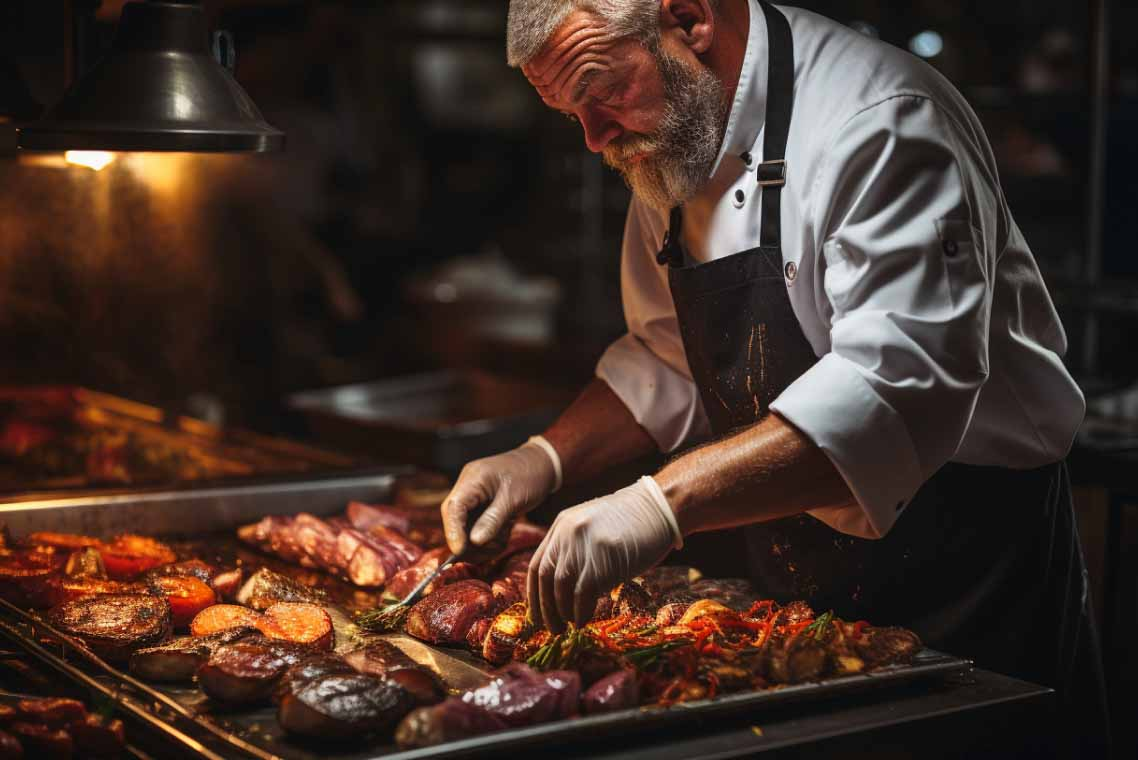
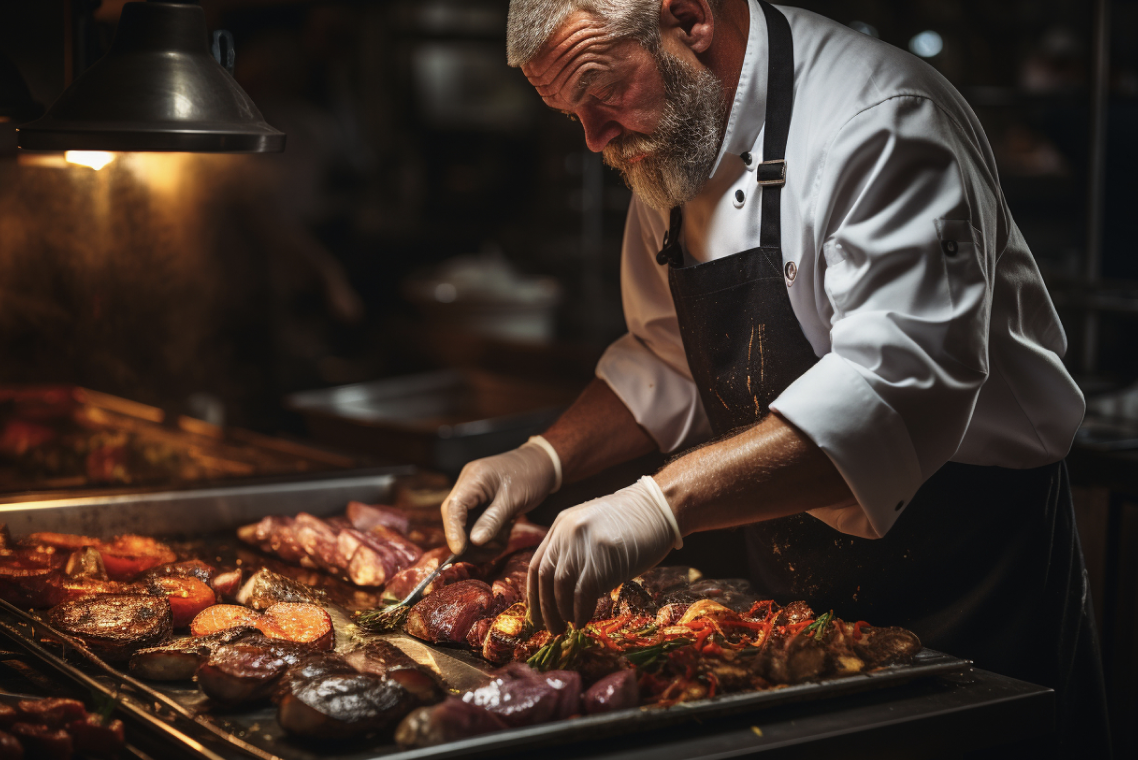
test

Changed region(s): [[0.0308, 0.6961, 0.7074, 0.8776], [0.4613, 0.0303, 0.5228, 0.0605], [0.5228, 0.0, 0.5536, 0.0303]]

diff --git a/index.html b/index.html
@@ -79,7 +79,7 @@
 
                 <div class="todays_recipes_content_block">
                     <div class="todays_recipes_content_block_image">
-                        <img src="clip-image.jpg" alt="">
+                        <img src="clip-image.png" alt="">
                     </div>
                     <div class="todays_recipes_content_block_text">
                         <div class="todays_recipes_content_block_text_top">
@@ -102,11 +102,6 @@
                         </div>
                     </div>
                 </div>
-
-
-                safese
-
-
 
                 <div class="todays_recipes_content_block">
                     <div class="todays_recipes_content_block_image">

diff --git a/css/style.css b/css/style.css
@@ -1189,21 +1189,24 @@ right: 260px;
 .steps .step {
     margin-bottom: 15px;
     display: flex;
+    align-items: center;
     gap: 10px;
    /*  margin-left: 80px; */
 }
 
 .step-number {
-    writing-mode: vertical-lr;
+    transform: rotate(-90deg);
+    white-space: nowrap;
     text-align: center;
     text-transform: uppercase;
     font-size: 13px;
     font-weight: bold;
     color: var(--primary-color);
+    margin-left: -15px;
   /*   padding-left: 30px; */
 }
 .step-text {
-    padding-left: 23px;
+    padding-left: 10px;
     color: var(--color-light);
     font-size:14px;
 }
